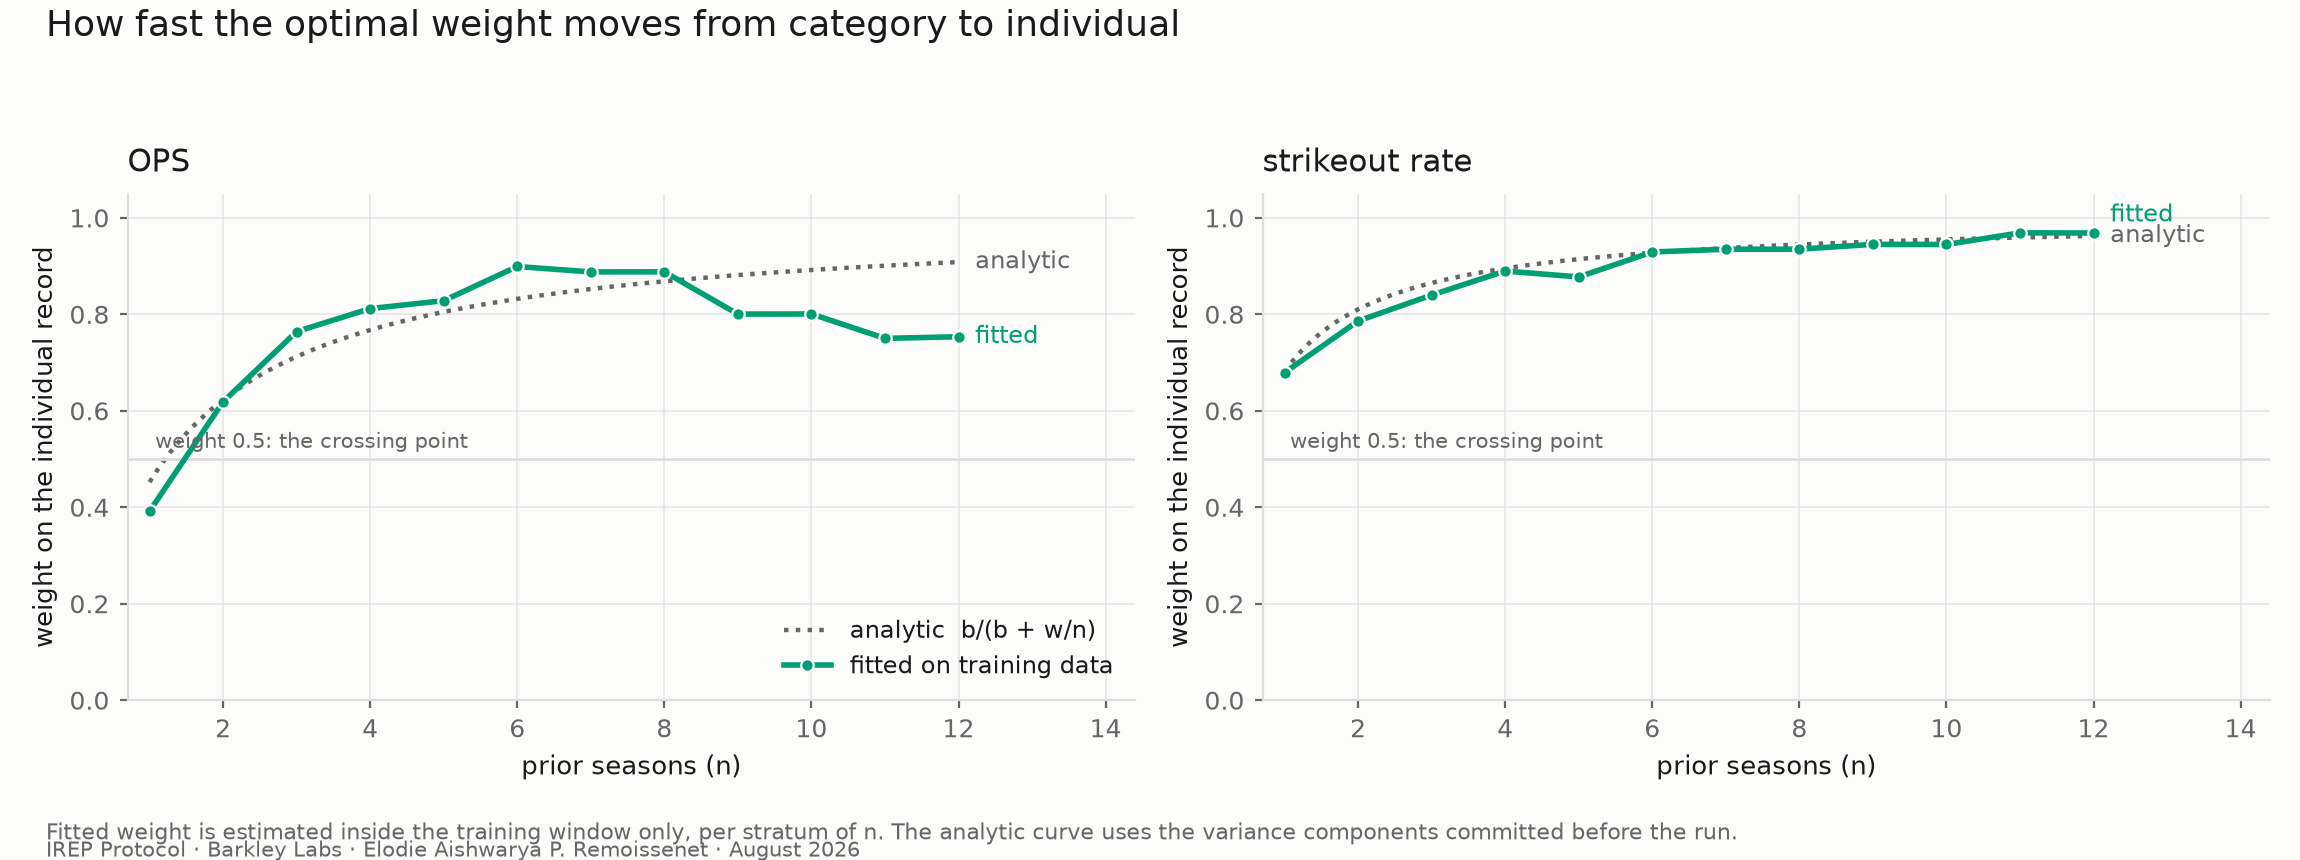
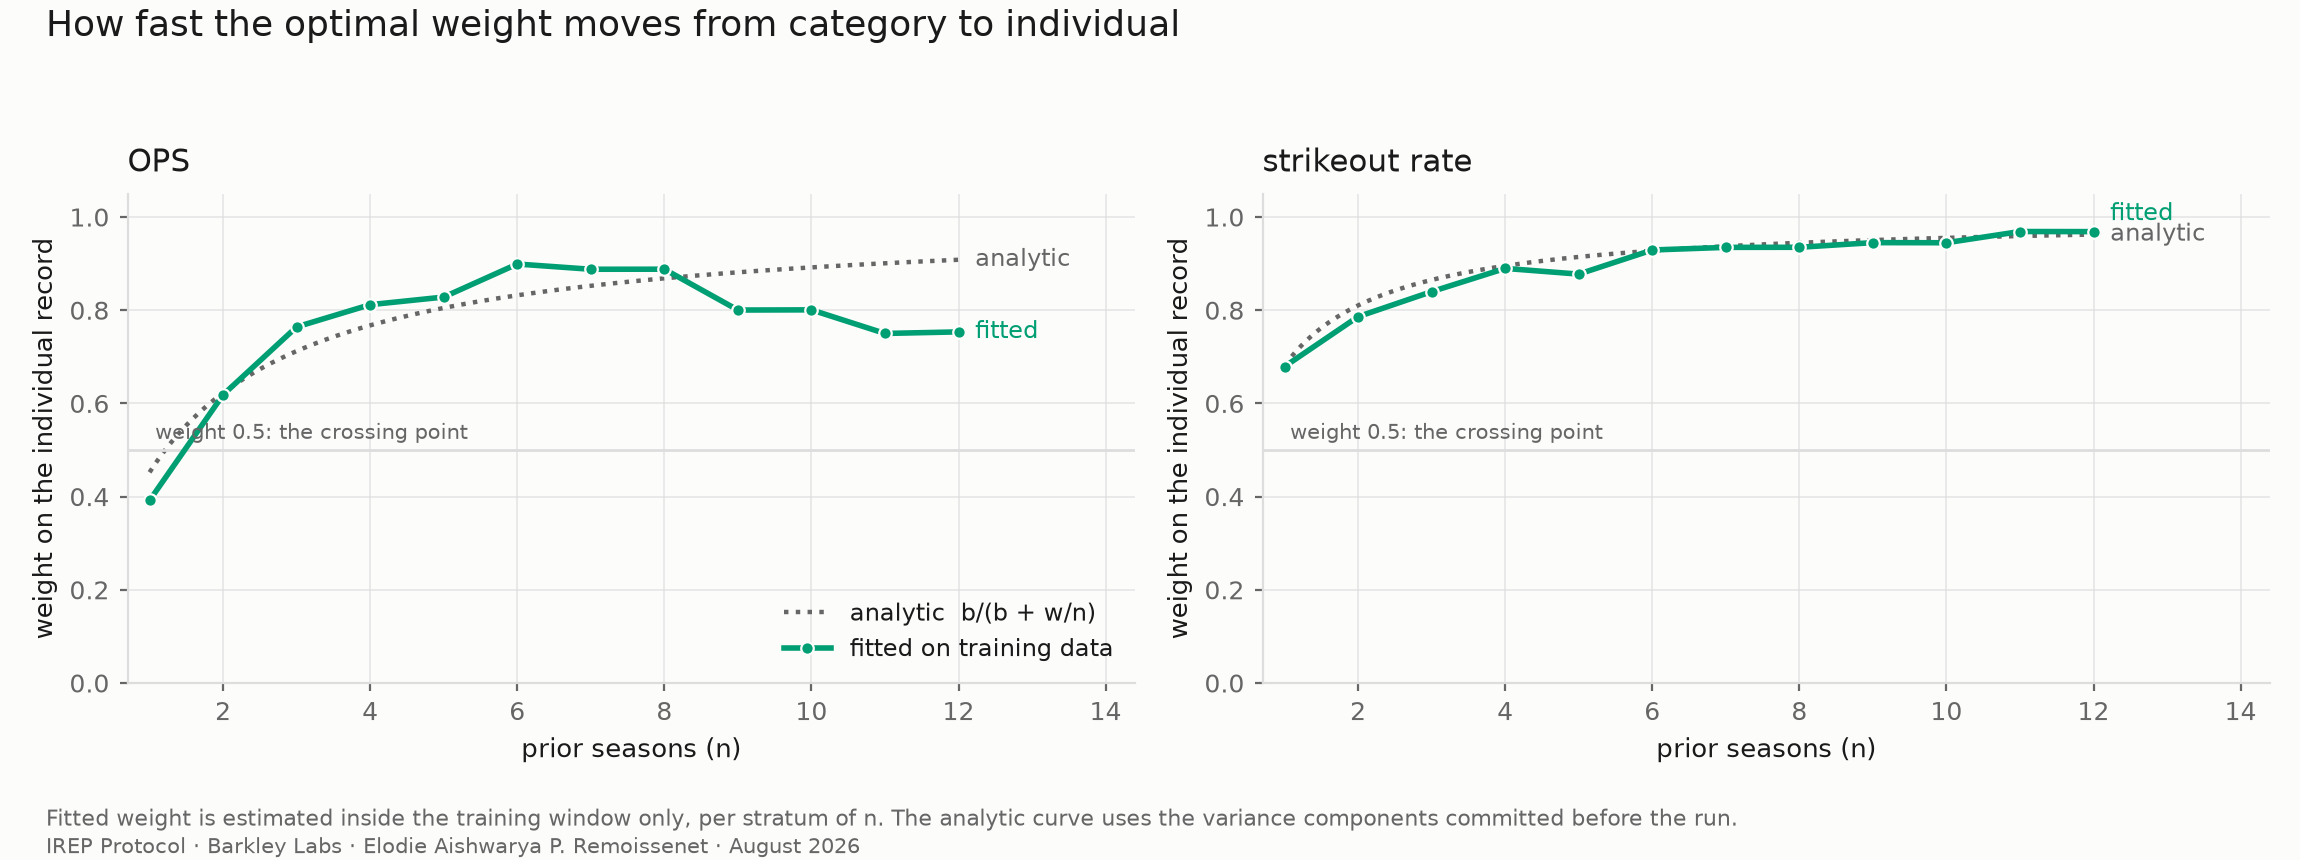
figures: real leading between the two footer rows

diff --git a/src/figures.py b/src/figures.py
@@ -106,13 +106,13 @@ def figure1(results, path):
     axes[0].legend(frameon=False, fontsize=8.5, loc="upper right", labelcolor=INK)
     fig.suptitle("Where the individual record overtakes the category",
                  fontsize=13, color=INK, x=0.02, ha="left", y=0.99, fontweight="medium")
-    fig.text(0.02, 0.024,
+    fig.text(0.02, 0.040,
              "Rolling-origin validation, test seasons 1991-2022, Lahman 1954-2022. "
              "Shaded band: 95% bootstrap interval on the empirical crossing.",
              fontsize=8, color=MUTED, ha="left")
-    fig.text(0.02, 0.004, "IREP Protocol · Barkley Labs · Elodie Aishwarya P. Remoissenet · August 2026",
+    fig.text(0.02, 0.008, "IREP Protocol · Barkley Labs · Elodie Aishwarya P. Remoissenet · August 2026",
              fontsize=7.5, color=MUTED, ha="left")
-    fig.tight_layout(rect=[0, 0.055, 1, 0.94])
+    fig.tight_layout(rect=[0, 0.075, 1, 0.94])
     fig.savefig(path, dpi=200, facecolor=SURFACE)
     plt.close(fig)
     return path
@@ -153,13 +153,13 @@ def figure2(results, analytic, path):
     axes[0].legend(frameon=False, fontsize=8.5, loc="lower right", labelcolor=INK)
     fig.suptitle("How fast the optimal weight moves from category to individual",
                  fontsize=13, color=INK, x=0.02, ha="left", y=0.99, fontweight="medium")
-    fig.text(0.02, 0.024,
+    fig.text(0.02, 0.040,
              "Fitted weight is estimated inside the training window only, per stratum of n. "
              "The analytic curve uses the variance components committed before the run.",
              fontsize=8, color=MUTED, ha="left")
-    fig.text(0.02, 0.004, "IREP Protocol · Barkley Labs · Elodie Aishwarya P. Remoissenet · August 2026",
+    fig.text(0.02, 0.008, "IREP Protocol · Barkley Labs · Elodie Aishwarya P. Remoissenet · August 2026",
              fontsize=7.5, color=MUTED, ha="left")
-    fig.tight_layout(rect=[0, 0.055, 1, 0.94])
+    fig.tight_layout(rect=[0, 0.075, 1, 0.94])
     fig.savefig(path, dpi=200, facecolor=SURFACE)
     plt.close(fig)
     return path
